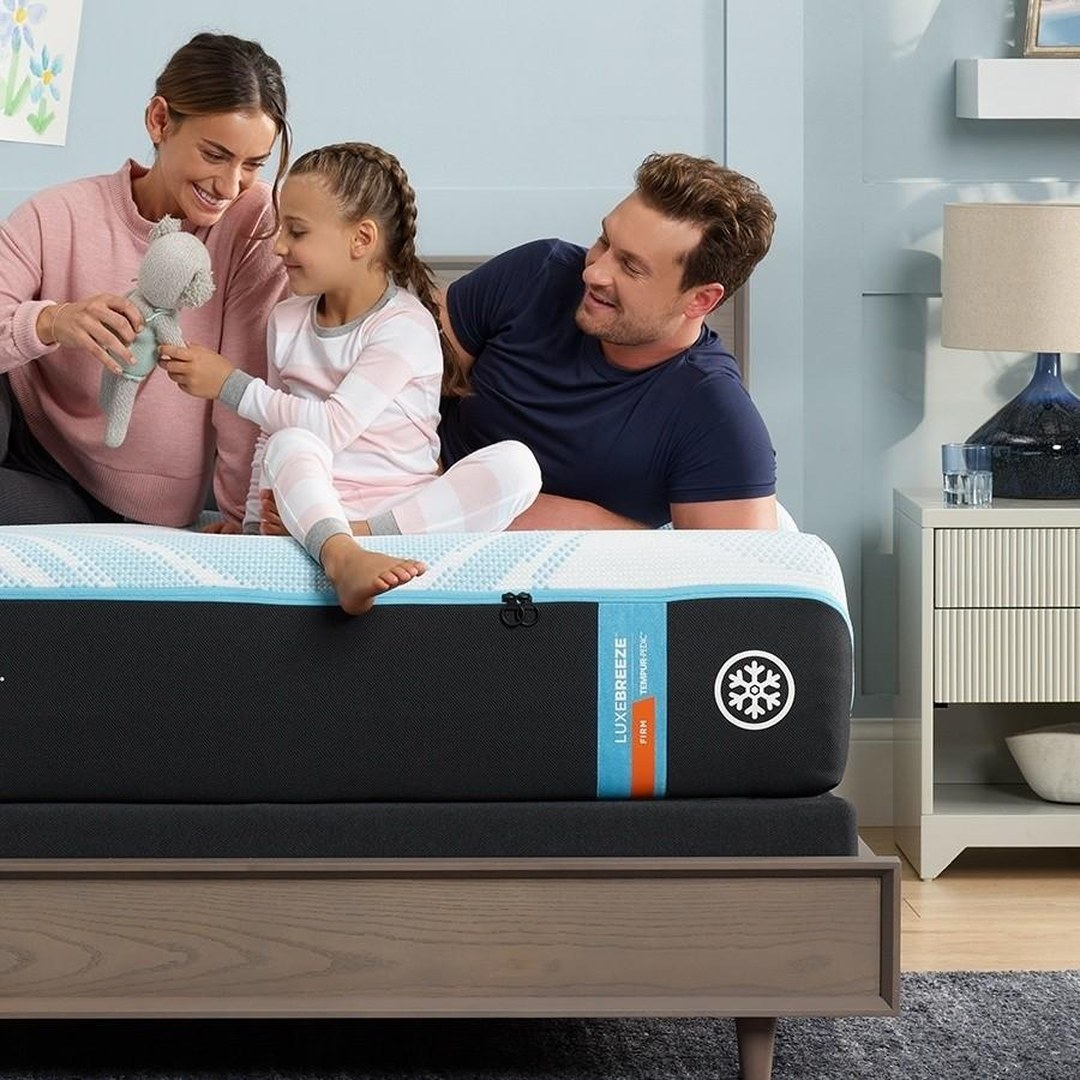
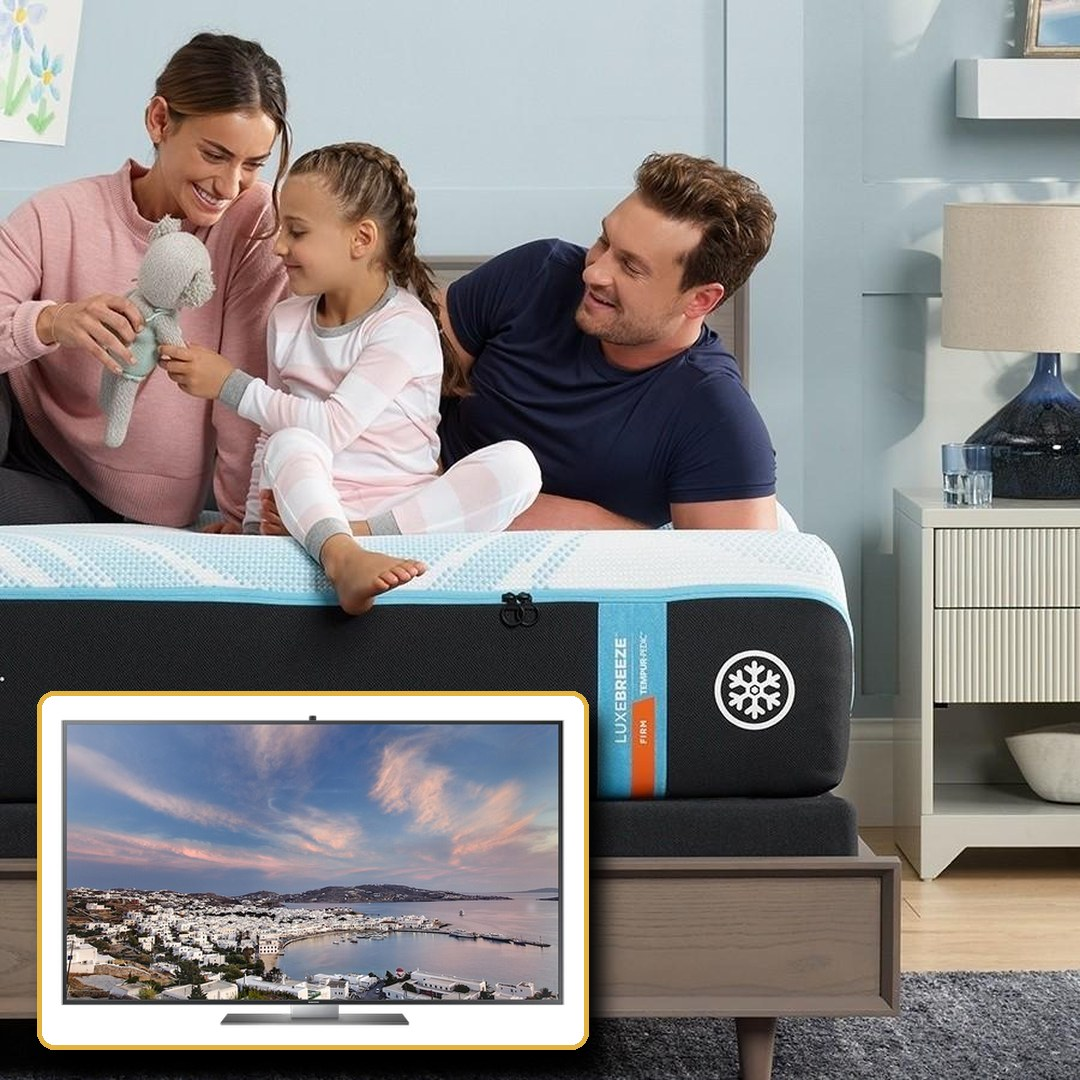
Place the television inside the Breeze Collection photo.
The real product photo is inset on the family picture for the card and the enlarged view. The separate picture under the title is gone, and the original family photo is kept beside it.

Changed region(s): [[0.0306, 0.6417, 0.5806, 0.9778]]

diff --git a/index.html b/index.html
@@ -22,7 +22,7 @@
   • Leave "desc" off when it would repeat "name". Do not add an unverified series.
   • Several sizes? Use "prices": [ {"label":"Queen","price":"$749"}, ... ] instead of "price".
   • No price? Leave "price" out and add "badge": "your text" instead.
-  • Optional "icon": a small picture shown with that card's offer. The Breeze Collection TV photo is Samsung Belgium's product picture (CC BY 2.0, https://commons.wikimedia.org/wiki/File:Samsung_UE65F9005STXXE_front_black_20130613.jpg). It is a representative screen only. Do not name that brand or model on the card.
+  • The Breeze Collection pictures include a television inset. The untouched family photo is img/18-family.jpg. The television is Samsung Belgium's product picture (CC BY 2.0, https://commons.wikimedia.org/wiki/File:Samsung_UE65F9005STXXE_front_black_20130613.jpg), a representative screen only. Do not name that brand or model on the card.
   • Sale dates: type them into "dates" (e.g. "Oct 1 – Oct 31"); leave "" to hide.
   • Leave a store "phone" as "" to hide its call link.
   Keep the commas and quotes exactly as they are.
@@ -207,7 +207,6 @@
     {
       "name": "Tempur-Pedic Breeze Collection",
       "badge": "FREE 50\" Smart TV with purchase",
-      "icon": "img/tv-offer.png",
       "category": "Mattresses",
       "image": "img/18.jpg",
       "large": "img/18-lg.jpg"
@@ -425,7 +424,6 @@
   a.card:focus-visible{outline:3px solid var(--gold);outline-offset:-5px}
   .card .ph{aspect-ratio:1/1;background:var(--sand);overflow:hidden}
   .card .ph img{display:block;width:100%;height:100%;object-fit:cover}
-  .card .tv{display:block;width:86%;max-width:168px;height:auto;margin:8px auto 0}
   .card .info{padding:10px 12px 14px}
   .card .nm{font-weight:700;font-size:14px;line-height:1.25;color:var(--ink)}
   .card .ds{font-size:12px;color:var(--muted);margin-top:2px;line-height:1.3}
@@ -518,9 +516,8 @@
       var closeTag = o.link ? '<span class="sr">, opens Synchrony financing in a new tab</span></a>' : '</button>';
       var availability = o.terms==='Door Buster starts on Nov 25' ? '<div class="tm">'+esc(o.terms)+'</div>' : '';
       var tap = (!o.link && (o.price||o.prices)) ? '<div class="tap">Tap to enlarge</div>' : '';
-      var icon = o.icon ? '<img class="tv" src="'+esc(o.icon)+'" alt="">' : '';
       return openTag+'<div class="ph"><img src="'+esc(o.image)+'" alt="'+esc(alt)+'" '+(i<4?'':'loading="lazy"')+' decoding="async"></div>' +
-             '<div class="info"><div class="nm">'+esc(o.name)+'</div>'+(sub?'<div class="ds">'+esc(sub)+'</div>':'')+icon+(o.prices?'<div class="pp">'+o.prices.map(function(p){return '<div><span>'+esc(p.label)+'</span><b>'+esc(p.price)+'</b></div>'}).join('')+'</div>':o.price?'<div class="pr">'+esc(o.price)+'<small>SALE</small></div>':'<div class="bd">'+esc(o.badge||'')+'</div>')+availability+tap+'</div>'+closeTag;
+             '<div class="info"><div class="nm">'+esc(o.name)+'</div>'+(sub?'<div class="ds">'+esc(sub)+'</div>':'')+(o.prices?'<div class="pp">'+o.prices.map(function(p){return '<div><span>'+esc(p.label)+'</span><b>'+esc(p.price)+'</b></div>'}).join('')+'</div>':o.price?'<div class="pr">'+esc(o.price)+'<small>SALE</small></div>':'<div class="bd">'+esc(o.badge||'')+'</div>')+availability+tap+'</div>'+closeTag;
     }).join('');
   }
   render();
